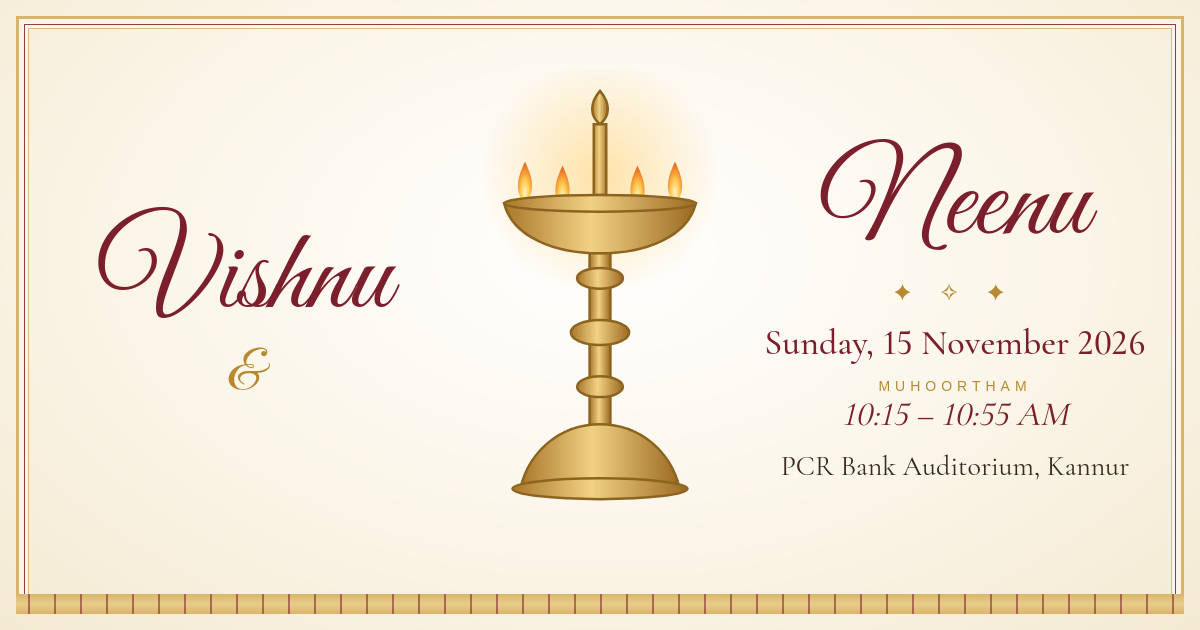
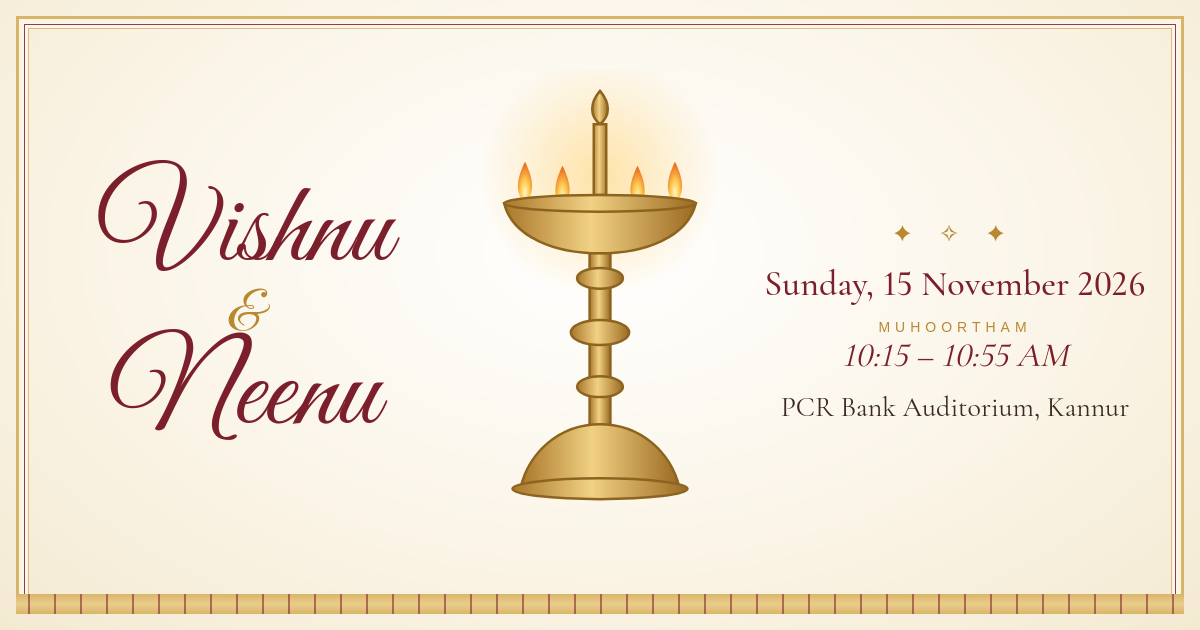
Put both names on one side of the preview card

diff --git a/index.html b/index.html
@@ -9,8 +9,8 @@
 <meta property="og:url" content="https://vishnu13pv.github.io/vishnu-neenu-wedding/">
 <meta property="og:title" content="Vishnu &amp; Neenu — Wedding Invitation">
 <meta property="og:description" content="Sunday, 15 November 2026 · Muhoortham 10:15 – 10:55 AM · PCR Bank Auditorium, Dharmashala, Kannur. We would love to have you with us.">
-<meta property="og:image" content="https://vishnu13pv.github.io/vishnu-neenu-wedding/preview.png">
-<meta property="og:image:secure_url" content="https://vishnu13pv.github.io/vishnu-neenu-wedding/preview.png">
+<meta property="og:image" content="https://vishnu13pv.github.io/vishnu-neenu-wedding/preview.png?v=2">
+<meta property="og:image:secure_url" content="https://vishnu13pv.github.io/vishnu-neenu-wedding/preview.png?v=2">
 <meta property="og:image:type" content="image/png">
 <meta property="og:image:width" content="1200">
 <meta property="og:image:height" content="630">
